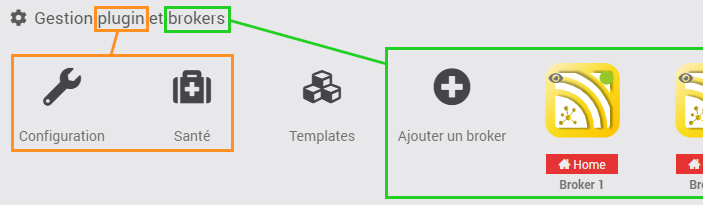
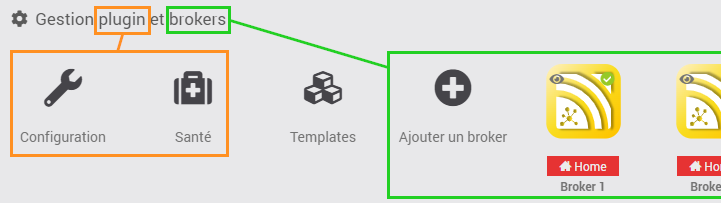
Documentation and Changelog

diff --git a/docs/fr_FR/index.md b/docs/fr_FR/index.md
@@ -181,7 +181,8 @@ Le plugin créé les informations suivantes :
 > **Note**
 >
 >   * Le nom de la commande est initialisé automatiquement par le plugin à partir du topic. Il peut ensuite être modifié comme souhaité.
->   * Jeedom, dans sa version actuelle, limite la longueur des noms de commande à 45 caractères. Dans le cas de commandes de longueur supérieure, jMQTT remplace leurs noms par leur code de hashage md4 sur 32 caractères (e.g. 5182636929901af7fa5fd97da5e279e1). L’utilisateur devra alors remplacer ces noms par le nommage de son choix.
+>   * Jeedom limite la longueur des noms de commande à 127 caractères depuis la version 4.1.17, 45 caractères avant. Dans le cas de commandes de longueur supérieure, jMQTT remplace leurs noms par leur code de hashage md4 sur 32 caractères (par exemple 5182636929901af7fa5fd97da5e279e1). L’utilisateur devra alors remplacer ces noms par le nommage de son choix.
+>   * Lorsqu'un Payload binaire (ne correspondant pas à du texte) est reçu, jMQTT essaye dans un premier temps de le décompresser en zlib et de le convertir en texte. S'il n'y parvient pas ou que le résultat reste binaire, alors cette valeur binaire est envoyée envoyée dans la commande information encodée en base64.
 
 **Payload JSON**
 
@@ -192,26 +193,26 @@ Le champ "Chemin JSON" est utilisé pour séléctionner l'information à extrair
 
 Prenons l’exemple de la payload JSON suivante :
 
-    esp/temperatures {"device": "ESP32", "sensorType": "Temperature", "values": [9.5, 18.2, 20.6]}
+    esp/temperatures {"device": "ESP32", "sensorType": "Temp", "values": [9.5, 18.2, 20.6]}
 
 Au premier message reçu, jMQTT créé automatiquement l’information suivante :
 
-| Nom          | Sous-Type | Topic            | Chemin JSON  | Valeur                                                                          |
-| ------------ | --------- | ---------------- | ------------ | ------------------------------------------------------------------------------- |
-| temperatures | info      | esp/temperatures |              | {"device": "ESP32", "sensorType": "Temperature", "values": \[9.5, 18.2, 20.6\]} |
+| Nom          | Sous-Type | Topic            | Chemin JSON    | Valeur                                                                            |
+| ------------ | --------- | ---------------- | -------------- | --------------------------------------------------------------------------------- |
+| temperatures | info      | esp/temperatures |                | {"device": "ESP32", "sensorType": "Temp", "values": \[9.5, 18.2, 20.6\]}   |
 
 
 En basculant dans la vue JSON, via le bouton dédié en haut à droite de la page, et en dépliant complètement l'arbre manuellement, nous obtenons :
 
-| # |   | Nom                      | Sous-Type | Topic            | Chemin JSON      | Valeur                                                                          |
-| - | - |------------------------- | --------- | ----------------------------------- | ------------------------------------------------------------------------------- |
-| > |   | temperatures             | info      | esp/temperatures |                  | {"device": "ESP32", "sensorType": "Temperature", "values": \[9.5, 18.2, 20.6\]} |
-|   |   |                          | info      | esp/temperatures | \[device\]       | "ESP32"                                                                         |
-|   |   |                          | info      | esp/temperatures | \[sensorType\]   | "Temperature"                                                                   |
-|   | > |                          | info      | esp/temperatures | \[values\]       | \[9.5, 18.2, 20.6\]                                                             |
-|   |   |                          | info      | esp/temperatures | \[values\]\[0\]  | 9.5                                                                             |
-|   |   |                          | info      | esp/temperatures | \[values\]\[1\]  | 18.2                                                                            |
-|   |   |                          | info      | esp/temperatures | \[values\]\[2\]  | 20.6                                                                            |
+| # |   | Nom          | Sous-Type | Topic            | Chemin JSON     | Valeur                                                                   |
+| - | - | ------------ | --------- | ---------------- | --------------- | ------------------------------------------------------------------------ |
+| > |   | temperatures | info      | esp/temperatures |                 | {"device": "ESP32", "sensorType": "Temp", "values": \[9.5, 18.2, 20.6\]} |
+|   |   |              | info      | esp/temperatures | \[device\]      | "ESP32"                                                                  |
+|   |   |              | info      | esp/temperatures | \[sensorType\]  | "Temp"                                                                   |
+|   | > |              | info      | esp/temperatures | \[values\]      | \[9.5, 18.2, 20.6\]                                                      |
+|   |   |              | info      | esp/temperatures | \[values\]\[0\] | 9.5                                                                      |
+|   |   |              | info      | esp/temperatures | \[values\]\[1\] | 18.2                                                                     |
+|   |   |              | info      | esp/temperatures | \[values\]\[2\] | 20.6                                                                     |
 
 Seule la première ligne est une commande, reconnaissable parce qu'elle a un id, un nom et des paramètres.
 
@@ -220,23 +221,23 @@ Pour créer des commandes associées à chaque température, il suffit de saisir
 L'affichage bascule dans la vue normale, montrant toutes les commandes de l'équipement ; dans notre cas :
 
 | Nom          | Sous-Type | Topic            | Chemin JSON      | Valeur                                                                          |
-| ------------ | --------- | ---------------- |----------------- | ------------------------------------------------------------------------------- |
+| ------------ | --------- | ---------------- | ---------------- | ------------------------------------------------------------------------------- |
 | temp0        | info      | esp/temperatures | \[values\]\[0\]  | 9.5                                                                             |
 | temp1        | info      | esp/temperatures | \[values\]\[1\]  | 18.2                                                                            |
 | temp2        | info      | esp/temperatures | \[values\]\[2\]  | 20.6                                                                            |
-| temperatures | info      | esp/temperatures |                  | {"device": "ESP32", "sensorType": "Temperature", "values": \[9.5, 18.2, 20.6\]} |
+| temperatures | info      | esp/temperatures |                  | {"device": "ESP32", "sensorType": "Temp", "values": \[9.5, 18.2, 20.6\]} |
 
 Si nous rebasculons dans la vue JSON, nous obtenons alors :
 
-| # |   | Nom                      | Sous-Type | Topic            | Chemin JSON      | Valeur                                                                          |
-| - | - |------------------------- | --------- | ---------------- | ---------------- | ------------------------------------------------------------------------------- |
-| > |   | temperatures             | info      | esp/temperatures |                  | {"device": "ESP32", "sensorType": "Temperature", "values": \[9.5, 18.2, 20.6\]} |
-|   |   |                          | info      | esp/temperatures | \[device\]       | "ESP32"                                                                         |
-|   |   |                          | info      | esp/temperatures | \[sensorType\]   | "Temperature"                                                                   |
-|   | > |                          | info      | esp/temperatures | \[values\]       | \[9.5, 18.2, 20.6\]                                                             |
-|   |   | temp0                    | info      | esp/temperatures | \[values\]\[0\]  | 9.5                                                                             |
-|   |   | temp1                    | info      | esp/temperatures | \[values\]\[1\]  | 18.2                                                                            |
-|   |   | temp2                    | info      | esp/temperatures | \[values\]\[2\]  | 20.6                                                                            |
+| # |   | Nom          | Sous-Type | Topic            | Chemin JSON     | Valeur                                                                   |
+| - | - | ------------ | --------- | ---------------- | --------------- | ------------------------------------------------------------------------ |
+| > |   | temperatures | info      | esp/temperatures |                 | {"device": "ESP32", "sensorType": "Temp", "values": \[9.5, 18.2, 20.6\]} |
+|   |   |              | info      | esp/temperatures | \[device\]      | "ESP32"                                                                  |
+|   |   |              | info      | esp/temperatures | \[sensorType\]  | "Temp"                                                                   |
+|   | > |              | info      | esp/temperatures | \[values\]      | \[9.5, 18.2, 20.6\]                                                      |
+|   |   | temp0        | info      | esp/temperatures | \[values\]\[0\] | 9.5                                                                      |
+|   |   | temp1        | info      | esp/temperatures | \[values\]\[1\] | 18.2                                                                     |
+|   |   | temp2        | info      | esp/temperatures | \[values\]\[2\] | 20.6                                                                     |
 
 > **Note**
 >

diff --git a/docs/fr_FR/changelog.md b/docs/fr_FR/changelog.md
@@ -18,6 +18,8 @@
  - Nettoyage et embellissement des pages de Santé
  - Affichage d'informations sur l'équipement dans le Gestionnaire de Template
  - Simplifications de certaines parties du code (lecture des fichiers de Template) et ajout de plus de gestion d'erreurs
+ - Utilisation d'icônes différentes selon les états des Brokers (pour ceux qui distinguent mal les couleurs)
+ - Alignement visuel des champs des commandes actions
 
 ## 2022-02-28
  - Correction d'un bug en cas de tentative de suppression d'une commande orpheline (sans EqLogic)
